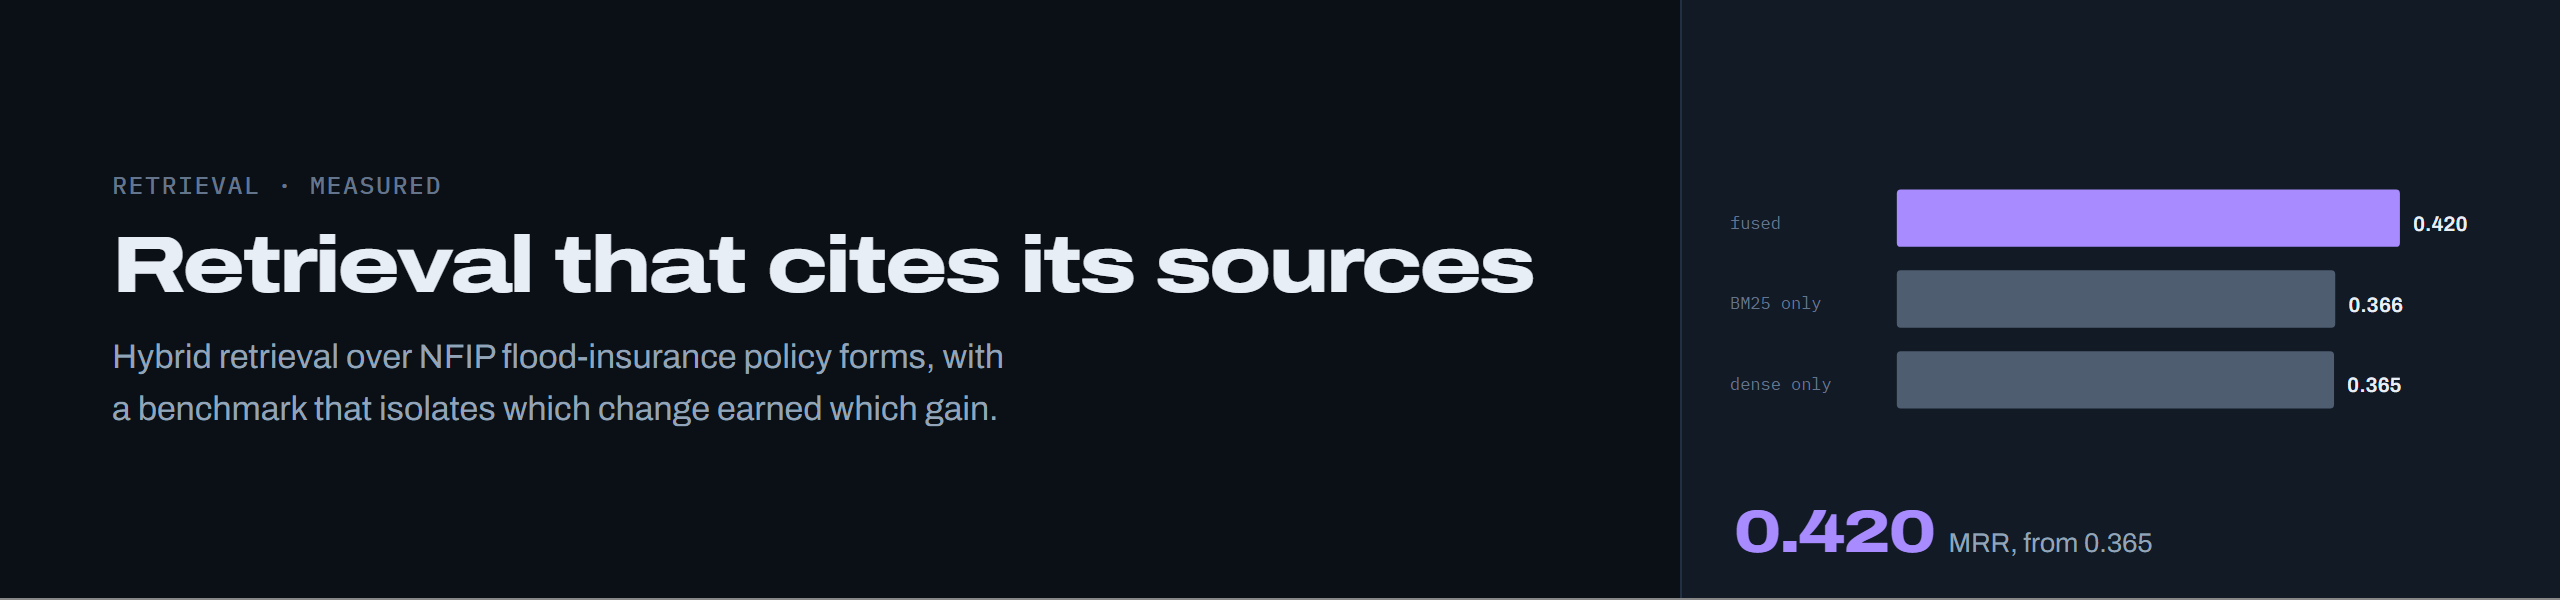
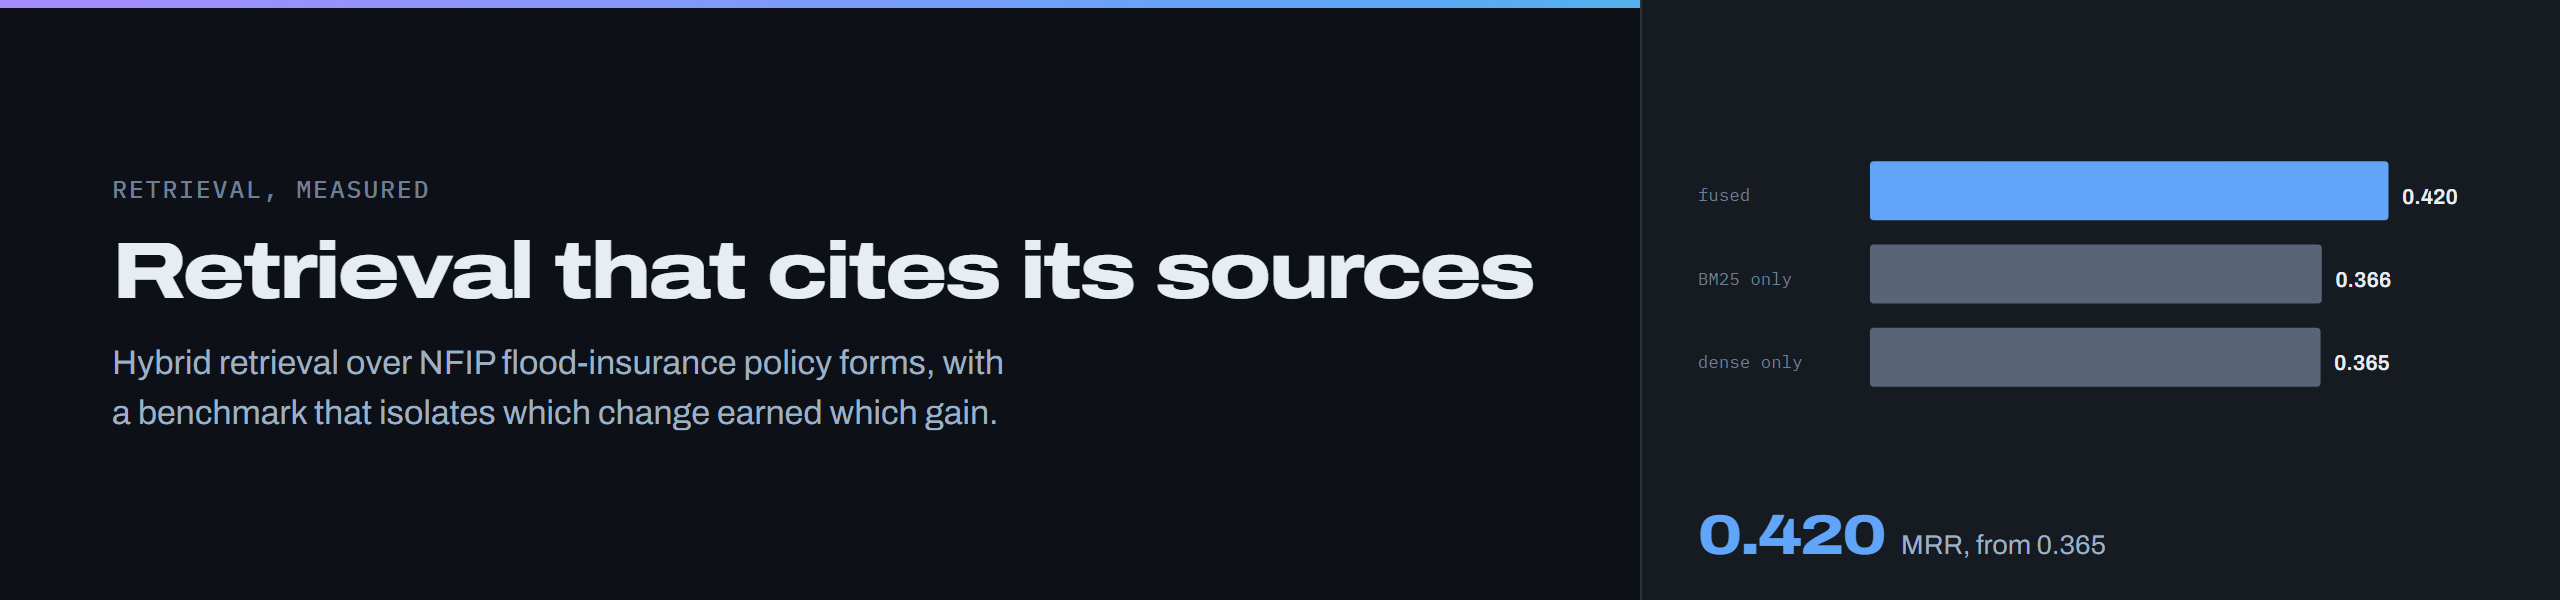
Replace machine-written punctuation and re-render the header image
Em dashes, middle dots, arrows, the multiplication sign and the superscript two
go, for the words or the plain characters that mean the same thing. The rule is
the one the CV, the GitHub profile and the website are all held to, enforced by
check_characters.py, so the four surfaces cannot drift apart.

The header image is re-rendered in the muted palette the profile moved to.
No claim, number or result changed.

diff --git a/README.md b/README.md
@@ -1,6 +1,6 @@
 <picture>
   <source media="(prefers-color-scheme: dark)" srcset="docs/assets/header-dark.png">
-  <img alt="InsureAssist — measured retrieval-augmented question answering over the three NFIP Standard Flood Insurance Policy forms" src="docs/assets/header-light.png">
+  <img alt="InsureAssist, measured retrieval-augmented question answering over the three NFIP Standard Flood Insurance Policy forms" src="docs/assets/header-light.png">
 </picture>
 
 # InsureAssist
@@ -39,16 +39,16 @@ Held-out test split. Derived from [`eval/reference_run.json`](eval/reference_run
 
 | | Hit@5 | MRR | Top-doc accuracy |
 |---|---|---|---|
-| *Starting point — dense, 600/100* | *0.611* | *0.366* | *0.167* |
+| *Starting point, dense, 600/100* | *0.611* | *0.366* | *0.167* |
 | Dense only (BGE), 800/120 | 0.500 | 0.365 | 0.556 |
 | BM25 only, 800/120 | **0.611** | 0.366 | 0.333 |
-| **Hybrid RRF — selected** | 0.556 | **0.420** | **0.556** |
+| **Hybrid RRF, selected** | 0.556 | **0.420** | **0.556** |
 
-**Top-document accuracy 0.556**, up 3.3× from 0.167. That gain is the chunk size, not the
+**Top-document accuracy 0.556**, up 3.3x from 0.167. That gain is the chunk size, not the
 fusion. Dense alone at 800/120 already reaches 0.556; holding the retriever fixed and moving
-600/100 → 800/120 is the whole 0.167 → 0.556. What fusion earned is the ranking: MRR 0.365 →
+600/100 to 800/120 is the whole 0.167 to 0.556. What fusion earned is the ranking: MRR 0.365  to
 0.420. hit rate@5 0.556 is not an improvement on the starting point's 0.611, and BM25 alone
-still retrieves more relevant chunks — 11 questions against 10, one question on a
+still retrieves more relevant chunks, 11 questions against 10, one question on a
 denominator of 18.
 
 Two things do not work, and they are measured too. The service rejects no unanswerable
@@ -59,7 +59,7 @@ context block that was never supplied. Both are expanded under [Limitations](#li
 p50 latency is **81.82 ms** over 27 questions on one machine, which is a fact about the
 machine and not a property of the system.
 
-The benchmark is **50** hand-authored labels — 32 answerable, 18 unanswerable — split
+The benchmark is **50** hand-authored labels, 32 answerable, 18 unanswerable, split
 deterministically into dev 23 and test 27. The 27 test questions include 9 unanswerable
 ones, which have no chunk to retrieve, so every retrieval number above is over the 18
 answerable test questions. One question is 5.6 percentage points at that size, and the 95%
@@ -71,7 +71,7 @@ breakdown and failure analysis: **[`docs/BENCHMARK.md`](docs/BENCHMARK.md)**.
 
 > On record, not yet fixed: [`docs/BENCHMARK.md`](docs/BENCHMARK.md) still reports "false
 > answers 4" and "all four unanswerable test questions" at lines 107 and 174, and quotes p50
-> ~50 ms at line 124, where the artefact says 9 false answers and 81.82 ms — and the figure
+> ~50 ms at line 124, where the artefact says 9 false answers and 81.82 ms, and the figure
 > printed directly above that prose already draws 9.
 
 ## Run it
@@ -112,7 +112,7 @@ character offsets, rather than the prose.
 
 ## Why this benchmark is hard
 
-The corpus is the three **NFIP Standard Flood Insurance Policy** forms — real policy wording,
+The corpus is the three **NFIP Standard Flood Insurance Policy** forms, real policy wording,
 enacted as federal regulation (44 CFR Part 61) and therefore redistributable.
 
 They are **near-duplicates by design**. All three share a skeleton and much verbatim wording,
@@ -155,9 +155,9 @@ untested guidance. See [`docs/PRODUCTION.md`](docs/PRODUCTION.md).
 - **Unanswerable questions are not detected.** Unanswerable rejection rate is 0.000. A
   similarity threshold was tested on an enlarged set of 18 unanswerable questions and
   rejected: balanced accuracy 0.802 on dev collapses to 0.556 on test, and 17 of the 18 score
-  above the weakest answerable question. No similarity threshold is defensible on this data — the hardest trap scores *above* the mean
+  above the weakest answerable question. No similarity threshold is defensible on this data, the hardest trap scores *above* the mean
   for answerable questions. Nothing is claimed.
-- **BM25 alone beats the selected hybrid on hit@5.** Hybrid was chosen for **MRR** — 0.420
+- **BM25 alone beats the selected hybrid on hit@5.** Hybrid was chosen for **MRR**, 0.420
   against 0.365 and 0.366. It is at **parity with dense on top-document accuracy** (0.556
   either way), so fusion cannot be credited for that number; the chunk size earned it.
   Both trade-offs are stated, not hidden.
@@ -169,33 +169,33 @@ untested guidance. See [`docs/PRODUCTION.md`](docs/PRODUCTION.md).
   specificity floors declared before the run.
 - **Two entailment judges clear the same calibration and disagree on recall by a third.**
   `DeBERTa-v3-large` reaches 0.938 calibration sensitivity against the base model's 0.844 at
-  the same specificity, and scores recall 12/15, 0.8000 [0.548, 0.930] — against 0.4667. The
+  the same specificity, and scores recall 12/15, 0.8000 [0.548, 0.930], against 0.4667. The
   intervals meet only between 0.548 and 0.699, and the disagreement is one-directional: the
   large judge's supported set strictly contains the base judge's, five sentences to none.
   Precision survives it (0.3333 against 0.3600), so *most citations being redundant* holds
   either way; **no recall figure is established.** Preferring the better-calibrated judge
   after seeing its answer is the post-hoc choice the declared floors exist to prevent, so the
-  human labelling pass in [`eval/citation_gold/`](eval/citation_gold/) is the adjudicator —
+  human labelling pass in [`eval/citation_gold/`](eval/citation_gold/) is the adjudicator,
   and it is still unlabelled.
 - **The model cites before it claims, and no prompt tried here changes it.** 12 of 16 cited
   sentences open with a citation marker rather than ending with one, and 16 of 16 do under a
   variant that states the valid range. Paired on the 13 questions that cited something under
   both prompts, 12 lead under both: McNemar p = 1.0. The `[n]` convention assumes the marker
   follows the statement it supports, so a marker preceding every claim leaves the attachment
-  ambiguous — the offsets resolve exactly, and they cannot say which sentence they belong to.
+  ambiguous, the offsets resolve exactly, and they cannot say which sentence they belong to.
   This is also what corrupted the first correctness figure, stranding punctuation at the
   front of nine hypotheses and emptying one. Measured without a judge by
   [`eval/citation_placement_run.py`](eval/citation_placement_run.py).
 - **28% of answers cite a block that was never supplied.** The prompt numbers five context
-  blocks; on the 18 answerable test questions the model produced `[6]`, `[7]` and `[16]` —
+  blocks; on the 18 answerable test questions the model produced `[6]`, `[7]` and `[16]`,
   5 of 18, 27.8% [12.5%, 50.9%]. Every answer cited something, so the failure is a dangling
   reference rather than a missing one. The `citations` field itself still resolves to exact
-  offsets, because it lists the retrieved blocks rather than the ones the answer used — mean
+  offsets, because it lists the retrieved blocks rather than the ones the answer used, mean
   coverage 27.8%, so most listed citations support nothing in the text beside them. Measured
   without a judge by [`eval/citation_run.py`](eval/citation_run.py); these are facts about
   the string, not opinions about the answer.
 - **One jurisdiction, one peril, three documents.** Results do not transfer.
-- **Fine-tuning is archived, not used** — its training data was the old evaluation set. See
+- **Fine-tuning is archived, not used**, its training data was the old evaluation set. See
   [`archive/README.md`](archive/README.md).
 
 ![Abstention and citations](docs/figures/05_abstention_and_citations.png)
@@ -203,7 +203,7 @@ untested guidance. See [`docs/PRODUCTION.md`](docs/PRODUCTION.md).
 Full list: [`docs/LIMITATIONS.md`](docs/LIMITATIONS.md).
 
 <details>
-<summary><b>Hardware acceleration — ingest on the accelerator, serve from the CPU</b></summary>
+<summary><b>Hardware acceleration, ingest on the accelerator, serve from the CPU</b></summary>
 
 The embedder is the only component a GPU changes. BM25 is pure Python over a few hundred
 chunks, and generation is a separate Ollama process. So the question is narrow: does moving
@@ -215,8 +215,8 @@ passes and 50 query passes after warm-up:
 
 | Workload | CPU (Core Ultra 9 285H) | Intel Arc Pro 140T | |
 |---|---|---|---|
-| Whole corpus, 314 chunks — ingestion | 11,408 ms | **2,635 ms** | 4.3x faster |
-| One short query — serving | **17.2 ms** | 30.4 ms | 0.57x, slower |
+| Whole corpus, 314 chunks, ingestion | 11,408 ms | **2,635 ms** | 4.3x faster |
+| One short query, serving | **17.2 ms** | 30.4 ms | 0.57x, slower |
 
 A single 40-character query does not fill the device, so dispatch and transfer cost more
 than the work saved. Batching 314 chunks does fill it. The useful conclusion is to ingest
@@ -233,7 +233,7 @@ Timings describe this machine. Nothing in CI depends on a GPU.
 </details>
 
 <details>
-<summary><b>Figures — all six generated from the reference run</b></summary>
+<summary><b>Figures, all six generated from the reference run</b></summary>
 
 All six are generated from [`eval/reference_run.json`](eval/reference_run.json) by one
 script, so none of them can disagree with the published result:
@@ -246,7 +246,7 @@ python scripts/figures/generate_diagrams.py   # architecture and pipeline SVGs
 | Figure | What it shows |
 |---|---|
 | [Retrieval scorecard](docs/figures/01_retrieval_scorecard.png) | hybrid against both baselines, with the question count behind every rate |
-| [Confidence intervals](docs/figures/02_confidence_intervals.png) | the same numbers with 95% Wilson intervals — they all overlap |
+| [Confidence intervals](docs/figures/02_confidence_intervals.png) | the same numbers with 95% Wilson intervals, they all overlap |
 | [By category](docs/figures/03_by_category.png) | where retrieval fails, and how few questions each category holds |
 | [Benchmark composition](docs/figures/04_benchmark_composition.png) | the corpus and the 50 questions |
 | [Abstention and citations](docs/figures/05_abstention_and_citations.png) | the part that does not work |
@@ -254,7 +254,7 @@ python scripts/figures/generate_diagrams.py   # architecture and pipeline SVGs
 
 ![Where retrieval fails](docs/figures/03_by_category.png)
 
-`numeric_limit` and `single_chunk` retrieve nothing relevant in the top 5 — but they hold
+`numeric_limit` and `single_chunk` retrieve nothing relevant in the top 5, but they hold
 two questions each, so "0 of 2" is the whole story. The category worth acting on is
 `near_miss`, at 2 of 5.
 
@@ -275,5 +275,5 @@ two questions each, so "0 of 2" is the whole story. The category worth acting on
 ## License
 
 The [MIT License](LICENSE) covers **the code only**. The NFIP forms under `data/corpus/` are
-US Government works carrying no copyright (17 U.S.C. 105) and are not relicensed here — see
+US Government works carrying no copyright (17 U.S.C. 105) and are not relicensed here, see
 [`NOTICE`](NOTICE).
